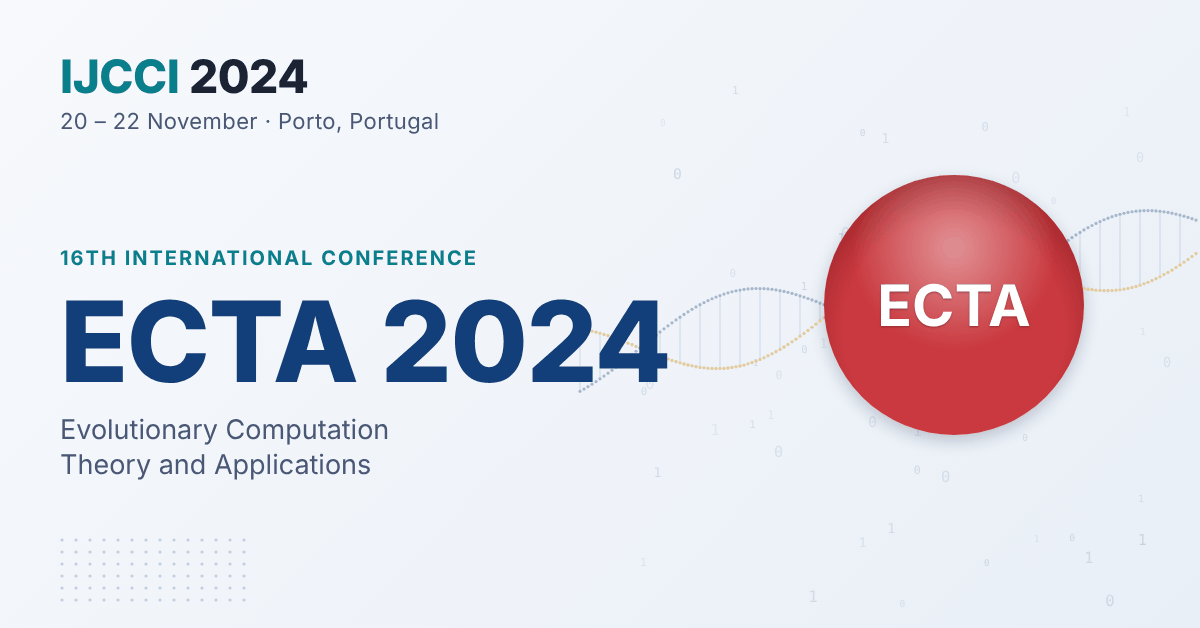
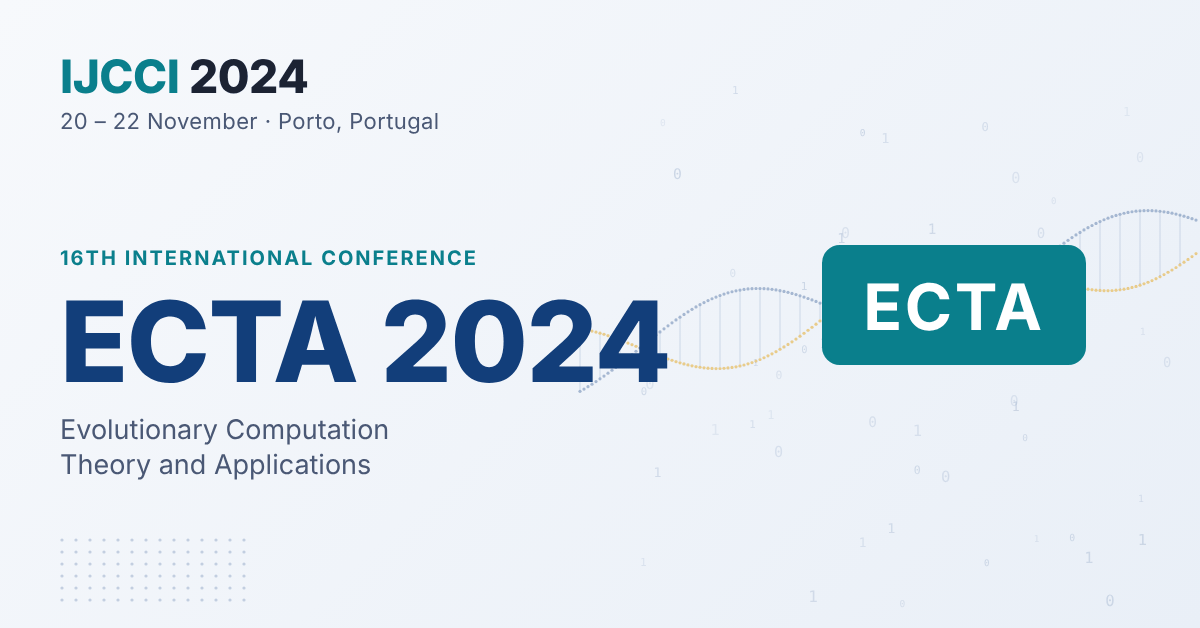
Show IJCCI conferences as flat rounded tags instead of balls
Claude-Session: https://claude.ai/code/session_01HiY2gpwfbKxiooXehbba7m

Changed region(s): [[0.6783, 0.2723, 0.925, 0.7261]]

diff --git a/img/events/src/banners.js b/img/events/src/banners.js
@@ -2,12 +2,8 @@
 // conferences: host conference shown in the top-left line and its logo.
 // events: one entry per _events/*.md file; the key is the output file name,
 //   <key>.png (card, 1200x628) and <key>-wide.png (1180x200).
-const ball = (name, c, d, size) => ({ball: name, c, d, size});
-const BALLS = {
-  ECTA: ['#c9393f', '#7a1418'], NCTA: ['#3f9a46', '#1d5a22'], FCTA: ['#c4a429', '#7d6510'],
-  EXPLAINS: ['#6d6d6d', '#2f2f2f'], AGENTICS: ['#7a4a2a', '#3c2010'],
-};
-const b = (name, size) => ball(name, BALLS[name][0], BALLS[name][1], size);
+// IJCCI conferences are shown as flat tags: filled = (co-)chaired by us, outlined = other.
+const tag = (name, size, on = true) => ({tag: name, size, on});
 const GENAI4EC = 'Supported by the IEEE CIS Task Force <b>GenAI4EC</b>';
 
 var BANNERS = {
@@ -60,16 +56,16 @@ var BANNERS = {
     foga2025: {conf: 'foga2025', kicker: '18th Conference', title: 'FOGA 2025', sub: 'Foundations of Genetic Algorithms', motif: 'scatter', seed: 17},
 
     // IJCCI conferences
-    ecta2024: {conf: 'ijcci2024', kicker: '16th International Conference', title: 'ECTA 2024', sub: 'Evolutionary Computation\nTheory and Applications', motif: 'helix', logos: [b('ECTA', 260)]},
-    ecta2025: {conf: 'ijcci2025', kicker: '17th International Conference', title: 'ECTA 2025', sub: 'Evolutionary Computation\nTheory and Applications', motif: 'helix', seed: 4, logos: [b('ECTA', 260)]},
-    ecta2026: {conf: 'ijcci2026', kicker: '18th International Conference', title: 'ECTA 2026', sub: 'Evolutionary Computation\nTheory and Applications', motif: 'helix', seed: 6, logos: [b('ECTA', 260)]},
-    explains2024: {conf: 'ijcci2024', kicker: '1st International Conference', title: 'EXPLAINS 2024', sub: 'Explainable AI for Neural\nand Symbolic Methods', motif: 'network', seed: 31, logos: [b('EXPLAINS', 260)]},
-    explains2025: {conf: 'ijcci2025', kicker: '2nd International Conference', title: 'EXPLAINS 2025', sub: 'Explainable AI for Neural\nand Symbolic Methods', motif: 'network', seed: 32, logos: [b('EXPLAINS', 260)]},
-    explains2026: {conf: 'ijcci2026', kicker: '3rd International Conference', title: 'EXPLAINS 2026', sub: 'Explainable AI for Neural\nand Symbolic Methods', motif: 'network', seed: 33, logos: [b('EXPLAINS', 260)]},
-    agentics2026: {conf: 'ijcci2026', kicker: '2nd International Conference', title: 'AGENTICS 2026', sub: 'Agentic and Generative Techniques\nin Intelligent Computational Systems', motif: 'network', seed: 34, logos: [b('AGENTICS', 260)]},
+    ecta2024: {conf: 'ijcci2024', kicker: '16th International Conference', title: 'ECTA 2024', sub: 'Evolutionary Computation\nTheory and Applications', motif: 'helix', logos: [tag('ECTA', 64)]},
+    ecta2025: {conf: 'ijcci2025', kicker: '17th International Conference', title: 'ECTA 2025', sub: 'Evolutionary Computation\nTheory and Applications', motif: 'helix', seed: 4, logos: [tag('ECTA', 64)]},
+    ecta2026: {conf: 'ijcci2026', kicker: '18th International Conference', title: 'ECTA 2026', sub: 'Evolutionary Computation\nTheory and Applications', motif: 'helix', seed: 6, logos: [tag('ECTA', 64)]},
+    explains2024: {conf: 'ijcci2024', kicker: '1st International Conference', title: 'EXPLAINS 2024', sub: 'Explainable AI for Neural\nand Symbolic Methods', motif: 'network', seed: 31, logos: [tag('EXPLAINS', 64)]},
+    explains2025: {conf: 'ijcci2025', kicker: '2nd International Conference', title: 'EXPLAINS 2025', sub: 'Explainable AI for Neural\nand Symbolic Methods', motif: 'network', seed: 32, logos: [tag('EXPLAINS', 64)]},
+    explains2026: {conf: 'ijcci2026', kicker: '3rd International Conference', title: 'EXPLAINS 2026', sub: 'Explainable AI for Neural\nand Symbolic Methods', motif: 'network', seed: 33, logos: [tag('EXPLAINS', 64)]},
+    agentics2026: {conf: 'ijcci2026', kicker: '2nd International Conference', title: 'AGENTICS 2026', sub: 'Agentic and Generative Techniques\nin Intelligent Computational Systems', motif: 'network', seed: 34, logos: [tag('AGENTICS', 64)]},
     ijcci2027: {conf: 'ijcci2027', kicker: '19th Joint Conference', title: 'IJCCI 2027', sub: 'International Joint Conference\non Computational Intelligence', motif: 'fuzzy', seed: 19,
-      logos: [b('ECTA', 150), b('EXPLAINS', 150), b('AGENTICS', 150), b('NCTA', 110), b('FCTA', 110)],
-      logoBox: {card: {flexWrap: 'wrap', width: '480px', right: '40px', gap: '14px 18px'}, wide: {width: '360px', right: '24px'}}},
+      logos: [tag('ECTA', 24), tag('EXPLAINS', 24), tag('AGENTICS', 24), tag('NCTA', 24, false), tag('FCTA', 24, false)],
+      tagsInText: true, logoBox: {wide: {width: 'auto', height: 'auto', top: '40px', right: '34px', flexWrap: 'nowrap'}}},
   },
 };
 if (typeof module !== 'undefined') module.exports = BANNERS;

diff --git a/img/events/src/banner.html b/img/events/src/banner.html
@@ -23,10 +23,9 @@ svg.bg{position:absolute;inset:0}
 .logos img{display:block;max-width:100%;max-height:100%;object-fit:contain}
 .note{position:absolute;color:#6b7a96;letter-spacing:.3px;text-align:right}
 .note b{color:#123e7a}
-/* INSTICC-style conference balls, drawn in CSS so they stay sharp */
-.ball{flex:none;border-radius:50%;display:flex;align-items:center;justify-content:center;color:#fff;font-weight:700;letter-spacing:.2px;
-  background:radial-gradient(circle at 50% 28%,rgba(255,255,255,.45) 0,rgba(255,255,255,0) 45%),radial-gradient(circle at 50% 60%,var(--c) 0,var(--c) 55%,var(--d) 100%);
-  box-shadow:0 6px 16px rgba(20,30,60,.22);text-shadow:0 1px 2px rgba(0,0,0,.35)}
+/* IJCCI conference tags: flat, rounded corners */
+.tag{flex:none;border:3px solid #0a7f8c;background:#0a7f8c;color:#fff;font-weight:700;letter-spacing:.04em;line-height:1;border-radius:.28em;padding:.42em .6em .36em}
+.tag.off{background:rgba(255,255,255,.6);border-color:#b8c6dc;color:#4a5875}
 
 /* card layout */
 .card .left{position:absolute;left:60px;top:48px;bottom:44px;width:var(--textw,640px);display:flex;flex-direction:column}
@@ -74,14 +73,15 @@ if(size=='card'){$('kicker').textContent=ev.kicker;$('kw').remove();$('main').qu
 else{$('kw').textContent=ev.kicker;$('kicker').remove();$('when').textContent=[C.dates,C.place].filter(Boolean).join(' · ')}
 if(ev.note)$('note').innerHTML=ev.note;
 
-// logos: image files or INSTICC balls
+// logos: image files or IJCCI conference tags
 const logos=ev.logos||C.logos||[], box=$('logos');
 for(const l of logos){
-  if(l.ball){const b=document.createElement('div');b.className='ball';const d=(size=='card'?l.size:l.size*0.42);
-    b.style.cssText=`width:${d}px;height:${d}px;font-size:${d*(l.ball.length>5?0.15:0.22)}px;--c:${l.c};--d:${l.d}`;b.textContent=l.ball;box.appendChild(b)}
+  if(l.tag){const b=document.createElement('div');b.className='tag'+(l.on?'':' off');
+    b.style.fontSize=(size=='card'?l.size:l.size*(l.size>40?0.6:0.66))+'px';if(size=='wide')b.style.borderWidth='2px';b.textContent=l.tag;box.appendChild(b)}
   else{const i=document.createElement('img');i.src='logos/'+l;box.appendChild(i)}
 }
-if(logos.length&&logos[0].ball&&size=='wide')box.style.gap='8px';
+if(logos.length&&logos[0].tag&&size=='wide')box.style.gap='8px';
+if(ev.tagsInText&&size=='card'){box.style.cssText='position:static;justify-content:flex-start;gap:12px;margin-top:22px;width:auto;height:auto';$('main').appendChild(box)}
 const lb=(ev.logoBox||C.logoBox||{})[size]; if(lb)Object.assign(box.style,lb);
 
 // fit the title: card may wrap to two lines, wide stays on one line
@@ -118,7 +118,9 @@ const M={
    el('rect',{x:R.x,y:R.y,width:R.w,height:R.h,fill:'none',stroke:'#8aa0c2','stroke-opacity':.5})},
  fuzzy(){const b=R.y+R.h-(size=='card'?40:10),h=size=='card'?150:80;[[.12,.08,A],[.35,.1,'#0a7f8c'],[.58,.09,B],[.8,.08,G]].forEach(([m,w,c])=>{let d='';for(let x=R.x;x<=R.x+R.w;x+=4){const z=(x-R.x)/R.w;d+=(x==R.x?'M':'L')+x+' '+(b-h*Math.exp(-(((z-m)/w)**2)))}el('path',{d,fill:'none',stroke:c,'stroke-opacity':.45,'stroke-width':2.5})});
    el('line',{x1:R.x,y1:b+1,x2:R.x+R.w,y2:b+1,stroke:'#8aa0c2','stroke-opacity':.6});
-   for(let i=0;i<40;i++){const t=r();el('circle',{cx:R.x+R.w-t*R.w*.7,cy:R.y+R.h*.25+(r()-.5)*R.h*.3*t,r:2+3*(1-t),fill:B,'fill-opacity':.2+.4*(1-t)})}}
+   if(size=='card'){const L=[[4,760],[6,870],[6,980],[3,1090]],P=L.map(([n,x])=>Array.from({length:n},(_,i)=>[x,70+(i+.5)*(290/n)]));
+     for(let l=0;l<P.length-1;l++)P[l].forEach(a=>P[l+1].forEach(c=>el('line',{x1:a[0],y1:a[1],x2:c[0],y2:c[1],stroke:'#3d5a87','stroke-opacity':.1+r()*.22,'stroke-width':1.1})));
+     P.flat().forEach((n,i)=>el('circle',{cx:n[0],cy:n[1],r:9,fill:i%7==3?'#e8632b':'#0a7f8c','fill-opacity':.75}))}}
 };
 (M[ev.motif]||M.network)();
 // population dots, bottom left of the card (shared detail of all banners)
